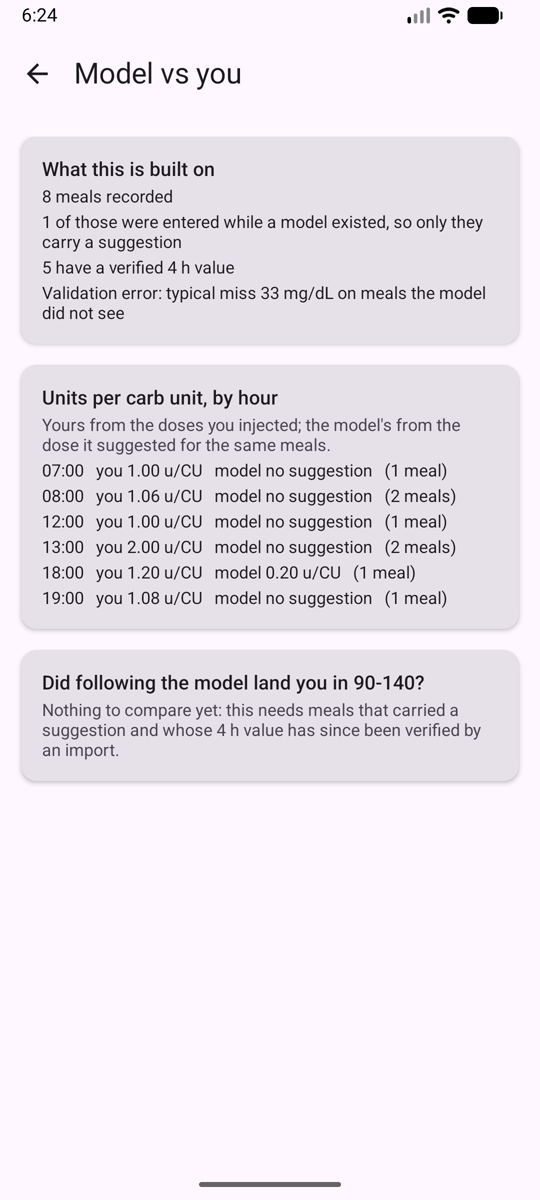
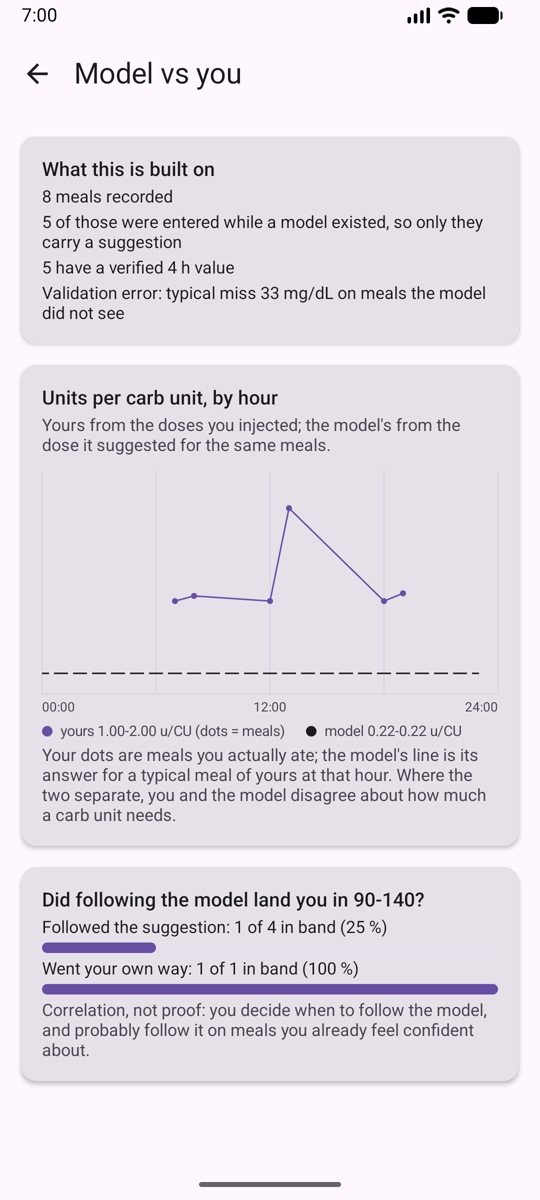
feat: plot units-per-carb as two curves over the day
The analysis screen listed one text line per hour, which hid the shape of the
thing it was measuring. It now draws two curves on shared axes: yours from the
doses you injected, marked with a dot at every hour you actually ate, and the
model's continuous across the full 24 hours.

The model curve comes from asking the advisor for a reference meal at each hour,
not from the stored suggestions - those only exist where you ate, so they cannot
produce a continuous line - and not from dividing standardised coefficients by
feature scales, which would be an interpretation rather than a record of what the
model says. The reference meal is the median of your own.

The model line is dark and dashed: tertiary on a card surface was invisible, and a
solid look-alike would read as a second measurement rather than a different claim.

"Did following the model land you in 90-140?" now shows each bucket as a count, a
share, and a bar drawn from the same share. An empty bucket says "no meals" rather
than drawing a 0 % bar, which reads as failure instead of absence of evidence.

diff --git a/app/src/main/java/com/example/glpred/ui/RatioChart.kt b/app/src/main/java/com/example/glpred/ui/RatioChart.kt
@@ -1,0 +1,147 @@
+package com.example.glpred.ui
+
+import androidx.compose.foundation.Canvas
+import androidx.compose.foundation.layout.Arrangement
+import androidx.compose.foundation.layout.Box
+import androidx.compose.foundation.layout.Column
+import androidx.compose.foundation.layout.Row
+import androidx.compose.foundation.layout.fillMaxWidth
+import androidx.compose.foundation.layout.height
+import androidx.compose.foundation.layout.padding
+import androidx.compose.foundation.layout.size
+import androidx.compose.foundation.layout.width
+import androidx.compose.foundation.background
+import androidx.compose.foundation.shape.CircleShape
+import androidx.compose.material3.MaterialTheme
+import androidx.compose.material3.Text
+import androidx.compose.runtime.Composable
+import androidx.compose.ui.Alignment
+import androidx.compose.ui.Modifier
+import androidx.compose.ui.geometry.Offset
+import androidx.compose.ui.graphics.Color
+import androidx.compose.ui.graphics.PathEffect
+import androidx.compose.ui.text.font.FontWeight
+import androidx.compose.ui.unit.dp
+import androidx.compose.ui.unit.sp
+import com.example.glpred.prediction.ModelVsHuman
+import java.util.Locale
+
+/**
+ * Two curves over the 24-hour clock: your dose per carb unit, and the model's.
+ *
+ * The model's line is continuous because it is the model's own answer for a reference meal at every
+ * hour - it can be evaluated anywhere. Yours only exists where you actually ate, so it is drawn as a
+ * line through those hours with a dot at each one: the dots are evidence, the segments between them
+ * are only a connection.
+ */
+@Composable
+fun RatioChart(
+    yourPoints: List<ModelVsHuman.RatioPoint>,
+    modelCurve: List<Double?>,
+    modifier: Modifier = Modifier
+) {
+    val youColor = MaterialTheme.colorScheme.primary
+    // The model line is drawn dark and dashed: tertiary against a card surface is too pale to see,
+    // and a solid look-alike would read as a second measurement rather than a different kind of claim.
+    val modelColor = MaterialTheme.colorScheme.onSurface
+    val gridColor = MaterialTheme.colorScheme.outlineVariant
+    val labelColor = MaterialTheme.colorScheme.onSurfaceVariant
+
+    val allValues = yourPoints.map { it.youUnitsPerCarb } +
+        modelCurve.filterNotNull() +
+        yourPoints.mapNotNull { it.modelUnitsPerCarb }
+    val maxY = ((allValues.maxOrNull() ?: 1.0) * 1.2).coerceAtLeast(0.5)
+
+    Column(modifier = modifier) {
+        Canvas(
+            modifier = Modifier
+                .fillMaxWidth()
+                .height(170.dp)
+        ) {
+            val w = size.width
+            val h = size.height
+
+            fun x(minuteOfDay: Int) = w * minuteOfDay / (24f * 60f)
+            fun y(unitsPerCarb: Double) = h - (unitsPerCarb / maxY).toFloat() * h
+
+            // Grid every six hours, so the eye can place a curve in the day.
+            for (hour in 0..24 step 6) {
+                val gx = x(hour * 60)
+                drawLine(gridColor, Offset(gx, 0f), Offset(gx, h), strokeWidth = 1f)
+            }
+            drawLine(gridColor, Offset(0f, h), Offset(w, h), strokeWidth = 1f)
+
+            // The model: continuous across the whole day.
+            val modelPoints = modelCurve.withIndex().mapNotNull { (hour, value) ->
+                value?.let { Offset(x(hour * 60), y(it)) }
+            }
+            for (i in 1 until modelPoints.size) {
+                drawLine(
+                    color = modelColor,
+                    start = modelPoints[i - 1],
+                    end = modelPoints[i],
+                    strokeWidth = 3f,
+                    pathEffect = PathEffect.dashPathEffect(floatArrayOf(14f, 10f))
+                )
+            }
+
+            // Yours: only where you ate, connected so a trend is visible.
+            val yourOffsets = yourPoints.map { Offset(x(it.hourOfDay * 60), y(it.youUnitsPerCarb)) }
+            for (i in 1 until yourOffsets.size) {
+                drawLine(youColor, yourOffsets[i - 1], yourOffsets[i], strokeWidth = 3f)
+            }
+            yourOffsets.forEach { drawCircle(youColor, radius = 6f, center = it) }
+        }
+
+        Row(
+            modifier = Modifier
+                .fillMaxWidth()
+                .padding(top = 4.dp)
+        ) {
+            Text("00:00", fontSize = 10.sp, color = labelColor)
+            Box(modifier = Modifier.weight(1f))
+            Text("12:00", fontSize = 10.sp, color = labelColor)
+            Box(modifier = Modifier.weight(1f))
+            Text("24:00", fontSize = 10.sp, color = labelColor)
+        }
+
+        Row(
+            modifier = Modifier.padding(top = 6.dp),
+            horizontalArrangement = Arrangement.spacedBy(16.dp)
+        ) {
+            LegendEntry(youColor, "yours ${formatCurveValue(yourPoints)} (dots = meals)")
+            LegendEntry(modelColor, "model ${formatModelRange(modelCurve)}")
+        }
+    }
+}
+
+@Composable
+private fun LegendEntry(color: Color, label: String) {
+    Row(verticalAlignment = Alignment.CenterVertically) {
+        Box(
+            modifier = Modifier
+                .size(8.dp)
+                .background(color, CircleShape)
+        )
+        Text(
+            text = label,
+            fontSize = 11.sp,
+            fontWeight = FontWeight.Normal,
+            color = MaterialTheme.colorScheme.onSurfaceVariant,
+            modifier = Modifier.padding(start = 6.dp)
+        )
+    }
+}
+
+private fun formatCurveValue(points: List<ModelVsHuman.RatioPoint>): String {
+    if (points.isEmpty()) return "-"
+    val min = points.minOf { it.youUnitsPerCarb }
+    val max = points.maxOf { it.youUnitsPerCarb }
+    return String.format(Locale.US, "%.2f-%.2f u/CU", min, max)
+}
+
+private fun formatModelRange(curve: List<Double?>): String {
+    val values = curve.filterNotNull()
+    if (values.isEmpty()) return "no model"
+    return String.format(Locale.US, "%.2f-%.2f u/CU", values.min(), values.max())
+}

diff --git a/app/src/main/java/com/example/glpred/ui/AnalysisScreen.kt b/app/src/main/java/com/example/glpred/ui/AnalysisScreen.kt
@@ -1,11 +1,15 @@
 package com.example.glpred.ui
 
+import androidx.compose.foundation.background
 import androidx.compose.foundation.layout.Arrangement
+import androidx.compose.foundation.layout.Box
 import androidx.compose.foundation.layout.Column
 import androidx.compose.foundation.layout.fillMaxSize
 import androidx.compose.foundation.layout.fillMaxWidth
+import androidx.compose.foundation.layout.height
 import androidx.compose.foundation.layout.padding
 import androidx.compose.foundation.rememberScrollState
+import androidx.compose.foundation.shape.RoundedCornerShape
 import androidx.compose.foundation.verticalScroll
 import androidx.compose.material.icons.Icons
 import androidx.compose.material.icons.automirrored.filled.ArrowBack
@@ -128,16 +132,17 @@ private fun RatioCard(analysis: ModelVsHuman) {
             if (rows.isEmpty()) {
                 Line("No meals with carb units recorded yet.", muted = true)
             } else {
-                rows.forEach { point ->
-                    val model = point.modelUnitsPerCarb
-                    Text(
-                        text = String.format(Locale.US, "%02d:00", point.hourOfDay) +
-                            "   you ${formatRatio(point.youUnitsPerCarb)}" +
-                            "   model ${model?.let { formatRatio(it) } ?: "no suggestion"}" +
-                            "   (${point.meals} meal${if (point.meals == 1) "" else "s"})",
-                        fontSize = 13.sp
-                    )
-                }
+                RatioChart(
+                    yourPoints = rows,
+                    modelCurve = analysis.modelCurve,
+                    modifier = Modifier.padding(top = 8.dp)
+                )
+                Line(
+                    "Your dots are meals you actually ate; the model's line is its answer for a " +
+                        "typical meal of yours at that hour. Where the two separate, you and the " +
+                        "model disagree about how much a carb unit needs.",
+                    muted = true
+                )
             }
         }
     }
@@ -156,8 +161,8 @@ private fun OutcomeCard(analysis: ModelVsHuman) {
                     muted = true
                 )
             } else {
-                Line("Followed the suggestion: ${describe(outcome.followed)}")
-                Line("Went your own way: ${describe(outcome.notFollowed)}")
+                BucketBar("Followed the suggestion", outcome.followed)
+                BucketBar("Went your own way", outcome.notFollowed)
                 Line(
                     "Correlation, not proof: you decide when to follow the model, and probably " +
                         "follow it on meals you already feel confident about.",
@@ -168,14 +173,41 @@ private fun OutcomeCard(analysis: ModelVsHuman) {
     }
 }
 
-private fun describe(bucket: ModelVsHuman.Bucket): String {
-    val share = bucket.inBandShare ?: return "no meals"
-    val percent = (share * 100).roundToInt()
-    return "${bucket.inBand} of ${bucket.meals} in band ($percent %)"
+/**
+ * One bucket of meals with the share that landed in band: the number, and a bar drawn from the same
+ * share so the two cannot disagree. An empty bucket says "no meals" rather than drawing a 0 % bar,
+ * which would look like evidence of failure instead of absence of evidence.
+ */
+@Composable
+private fun BucketBar(label: String, bucket: ModelVsHuman.Bucket) {
+    val share = bucket.inBandShare
+    Column(verticalArrangement = Arrangement.spacedBy(4.dp)) {
+        Text(
+            text = if (share == null) {
+                "$label: no meals"
+            } else {
+                "$label: ${bucket.inBand} of ${bucket.meals} in band " +
+                    "(${(share * 100).roundToInt()} %)"
+            },
+            fontSize = 13.sp
+        )
+        Box(
+            modifier = Modifier
+                .fillMaxWidth()
+                .height(8.dp)
+                .background(MaterialTheme.colorScheme.surfaceVariant, RoundedCornerShape(4.dp))
+        ) {
+            if (share != null && share > 0.0) {
+                Box(
+                    modifier = Modifier
+                        .fillMaxWidth(share.toFloat())
+                        .height(8.dp)
+                        .background(MaterialTheme.colorScheme.primary, RoundedCornerShape(4.dp))
+                )
+            }
+        }
+    }
 }
-
-/** Two decimals is enough to see a ratio move; three would read as false precision. */
-private fun formatRatio(value: Double): String = String.format(Locale.US, "%.2f u/CU", value)
 
 @Composable
 private fun SectionTitle(text: String) {

diff --git a/app/src/main/java/com/example/glpred/ui/DiaryViewModel.kt b/app/src/main/java/com/example/glpred/ui/DiaryViewModel.kt
@@ -25,6 +25,7 @@ import com.example.glpred.preprocessing.HistoryRow
 import com.example.glpred.preprocessing.MealHistory
 import com.example.glpred.preprocessing.TrainingSample
 import com.example.glpred.preprocessing.TrainingSamples
+import java.time.LocalDate
 import java.time.LocalDateTime
 import java.time.ZoneId
 import java.time.format.DateTimeFormatter
@@ -156,12 +157,50 @@ class DiaryViewModel(application: Application) : AndroidViewModel(application) {
                 } else {
                     val series = CgmSeries.from(cgmDao.getAllReadings())
                     val samples = TrainingSamples.build(entries, series)
-                    ModelVsHuman.build(entries, samples, LeaveOneOut.rmse4h(samples)?.rmse)
+                    ModelVsHuman.build(
+                        entries = entries,
+                        samples = samples,
+                        validationErrorMgDl = LeaveOneOut.rmse4h(samples)?.rmse,
+                        modelCurve = modelCurveByHour(entries)
+                    )
                 }
             }
             analysis = result
             isAnalysisLoading = false
         }
+    }
+
+    /**
+     * The model's dose per carb unit at every hour of the day, obtained by asking it for a reference
+     * meal at each one. Entry points alone cannot give a continuous curve - they only exist where the
+     * user actually ate - and re-deriving the curve from the coefficients would mean dividing
+     * standardised coefficients by feature scales, which is an interpretation rather than a record of
+     * what the model says. The reference meal is the median of the user's own meals.
+     */
+    private suspend fun modelCurveByHour(entries: List<DiaryEntity>): List<Double?> {
+        val withCarbs = entries.filter { it.carbs > 0f }
+        if (withCarbs.isEmpty()) return emptyList()
+        val carbs = median(withCarbs.map { it.carbs.toDouble() })
+        if (carbs <= 0.0) return emptyList()
+        val glucose = median(entries.map { it.glucose.toDouble() }).roundToInt()
+        val basis = median(entries.map { it.basis.toDouble() }).roundToInt()
+
+        val advisor = ModelDoseAdvisor(database.trainedModelDao())
+        val dayStart = LocalDate.now().atStartOfDay(ZoneId.systemDefault())
+        return (0 until 24).map { hour ->
+            val timestamp = dayStart.plusHours(hour.toLong()).toInstant().toEpochMilli()
+            val recommendation = runCatching {
+                advisor.recommend(DiaryEntryInput(timestamp, glucose, carbs.toFloat(), basis))
+            }.getOrNull() as? DoseRecommendation.Available
+            recommendation?.let { it.suggestedUnits / carbs }
+        }
+    }
+
+    private fun median(values: List<Double>): Double {
+        if (values.isEmpty()) return 0.0
+        val sorted = values.sorted()
+        val middle = sorted.size / 2
+        return if (sorted.size % 2 == 0) (sorted[middle - 1] + sorted[middle]) / 2 else sorted[middle]
     }
 
     // ---------------------------------------------------------------- draft entry

diff --git a/app/src/main/java/com/example/glpred/prediction/ModelVsHuman.kt b/app/src/main/java/com/example/glpred/prediction/ModelVsHuman.kt
@@ -20,7 +20,12 @@ data class ModelVsHuman(
     val mealsWithSuggestion: Int,
     val labelledMeals: Int,
     /** Leave-one-out error over all labelled meals, or null when there are too few. */
-    val validationErrorMgDl: Double?
+    val validationErrorMgDl: Double?,
+    /**
+     * The model's own dose per carb unit at each hour of the day (index = hour, 0..23), from asking
+     * it for a reference meal. Empty when no model exists or no meal has carb units recorded.
+     */
+    val modelCurve: List<Double?> = emptyList()
 ) {
 
     /**
@@ -59,7 +64,8 @@ data class ModelVsHuman(
         fun build(
             entries: List<DiaryEntity>,
             samples: List<TrainingSample>,
-            validationErrorMgDl: Double? = null
+            validationErrorMgDl: Double? = null,
+            modelCurve: List<Double?> = emptyList()
         ): ModelVsHuman {
             val labelsByEntry = samples.associateBy { it.entryId }
 
@@ -105,7 +111,8 @@ data class ModelVsHuman(
                 mealsRecorded = entries.size,
                 mealsWithSuggestion = entries.count { it.suggestedBolus != null },
                 labelledMeals = samples.count { it.after4h != null },
-                validationErrorMgDl = validationErrorMgDl
+                validationErrorMgDl = validationErrorMgDl,
+                modelCurve = modelCurve
             )
         }
     }
